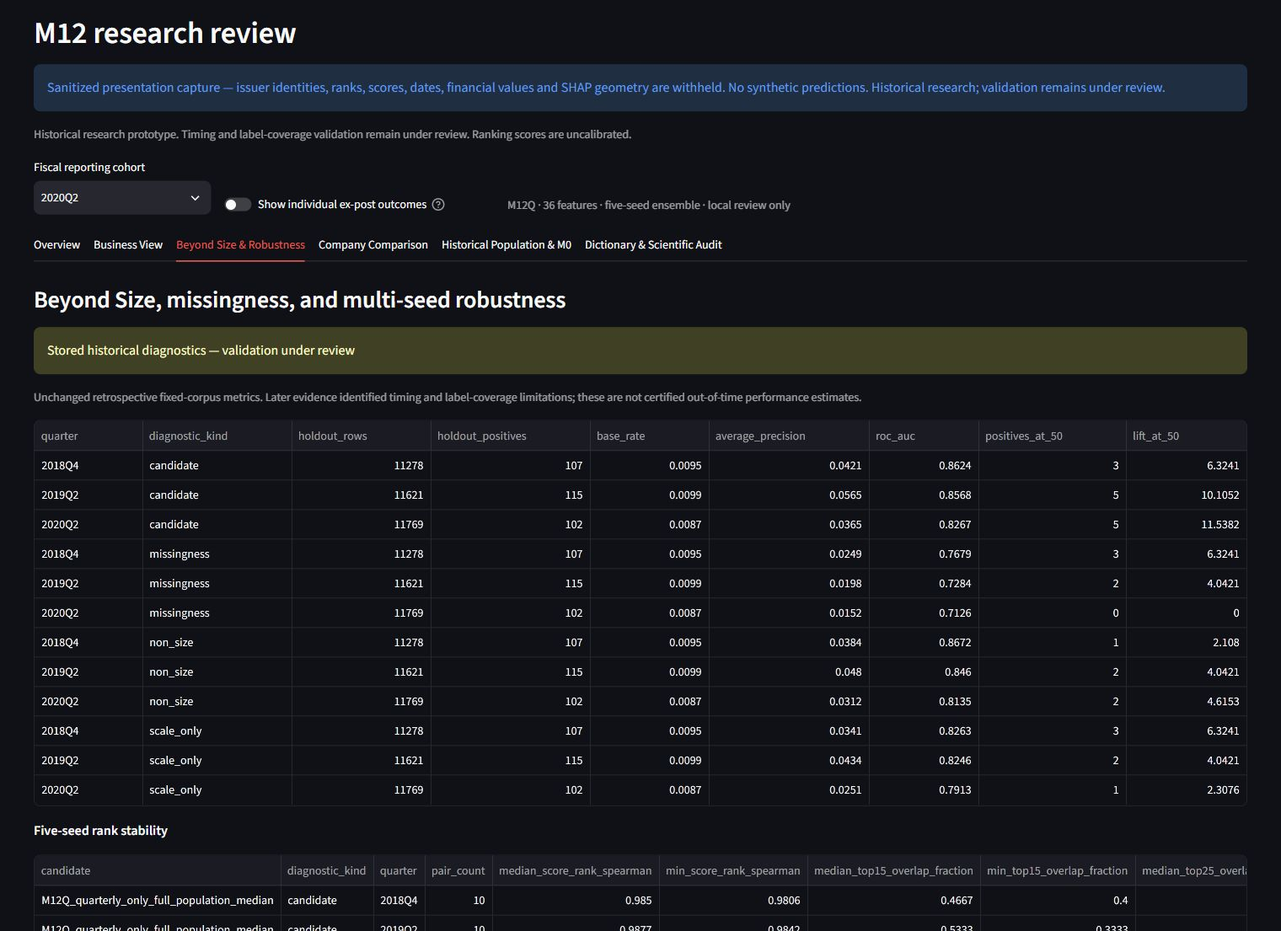
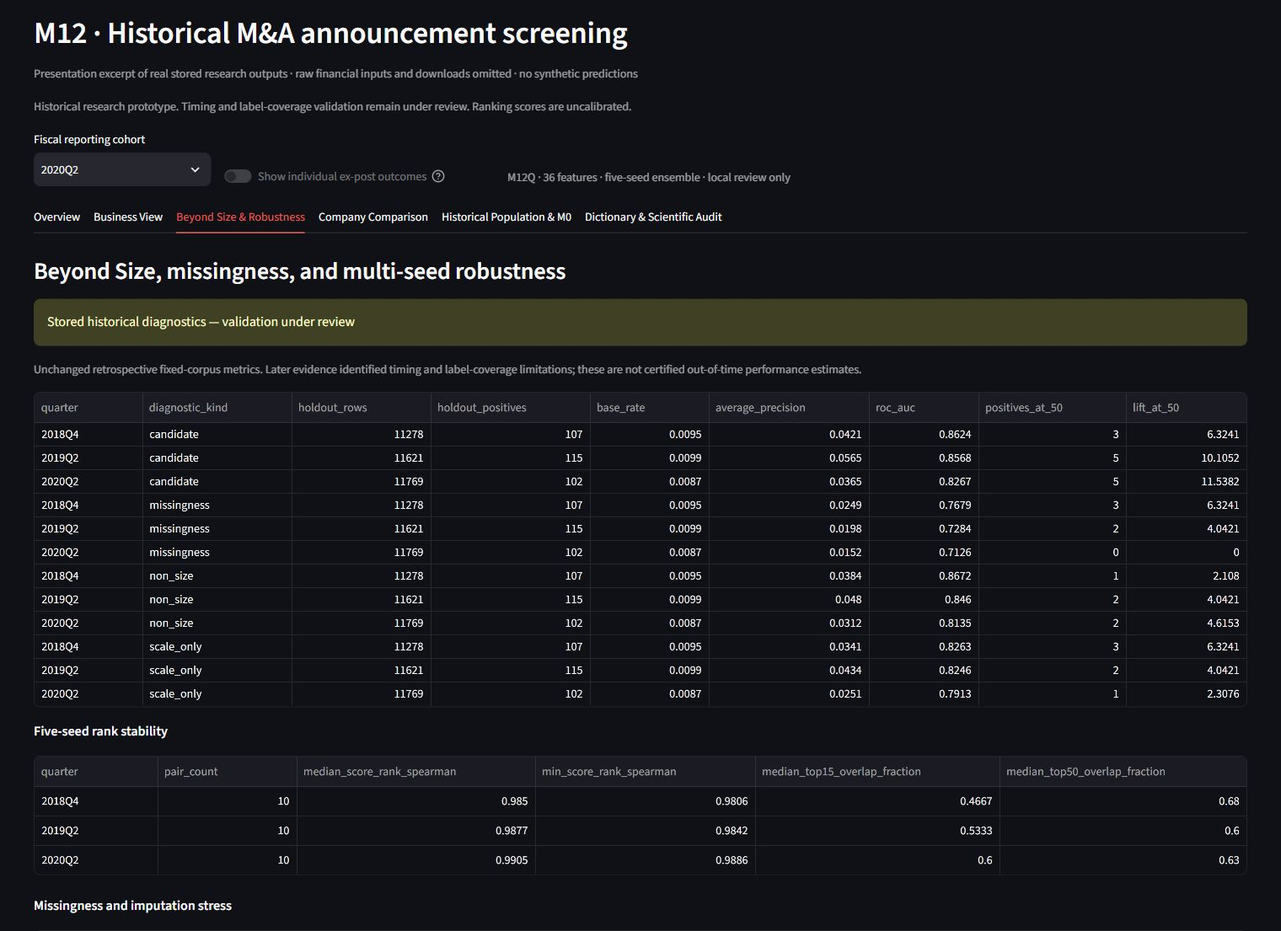
Improve README and screenshots for M12 dashboard review

diff --git a/README.md b/README.md
@@ -1,31 +1,61 @@
-# Historical SEC Filer research review
+# M&A announcement screening and explainability
 
-This private repository is a code checkpoint of a collaborative historical M&A research dashboard. The documented `app.py` entry point opens the reviewed **Overview-first** UI when authorized local dependencies are available, and a graceful code-only notice otherwise.
+This historical research MVP turns saved company-level model outputs into an **Overview-first screening workflow**: inspect ranked issuers, open a company, see what contributes to its score, compare names, and review the supporting historical diagnostics. Its intended use is U.S. public-company M&A research. The saved SEC-filer cohorts have **not** been validated as a U.S.-listed-only universe.
 
-**Historical research prototype. Timing and label-coverage validation remain under review. Ranking scores are uncalibrated.** This checkpoint is not a full-data backup, scientific approval, or authorization to redistribute licensed data. Earlier saved PASS/GS-ready statuses describe historical engineering checks, not current scientific certification.
+The model ranks potential **M&A-announcement SEC-filer/participant appearance in a following historical 92-day window**. It does not identify which company will be an acquisition target or acquirer. The explainability layer separates signed **Scale vs Non-scale** contributions and drills down to company-level drivers.
+
+**Scores are uncalibrated. Historical timing and label-coverage validation remain under review.** This is a historical research prototype, not a production trading or deal-execution system, a current-market prediction service, or a scientific approval. Earlier saved PASS/GS-ready statuses describe historical engineering checks, not current scientific certification.
+
+## What the reviewer can inspect
+
+| Question | Saved output and dashboard view |
+|---|---|
+| Which issuers rank highest? | Overview lists names, original full-cohort ranks, inclusive Top X% and uncalibrated scores. A signed contribution chart opens the selected issuer's Business View. |
+| Why does a company rank there? | Business View shows its information date and forecast window, signed Scale/Non-scale totals, and ranked drivers. Positive and negative SHAP contributions raise or lower the model's raw output relative to its saved baseline. |
+| Is the result just a size effect? | Beyond Size & Robustness presents scale-only, non-size and missingness comparators, plus saved seed-stability diagnostics. |
+| How do the leading names differ? | Company Comparison aligns saved ranks and model explanations across selected companies. Raw financial values are hidden in the published captures. |
+| What supports the research interpretation? | Historical Population & M0 provides descriptive context; Dictionary & Scientific Audit exposes feature definitions, the target contract and engineering-check caveats. |
+
+The selected saved model is `M12Q_quarterly_only_full_population_median`: a five-seed ensemble with 36 quarterly-only features. This application reads saved results; it performs no training, calibration, inference or new SHAP computation. With authorized local dependencies, `app.py` opens the reviewed UI. Without them, it displays a clear code-only notice rather than invented results.
 
 ## Dashboard screenshots
 
-Selected views from the current reviewed historical research dashboard are shown below. The screenshots illustrate the screening and explainability workflow; stored ranking scores are uncalibrated and historical timing / label-coverage validation remains under review.
+Selected views from the historical research dashboard illustrate issuer screening, real saved ranking outputs, signed Scale / Non-scale contributions, company-level drivers, robustness diagnostics, and the engineering/audit layer. Ranking scores are uncalibrated; these views are a historical research prototype, not a production-ready system.
 
-**Sanitized presentation captures, not newly shareable issuer-level results.** Identities, issuer-specific ranks/scores/dates, financial values, ranked drivers, fitted baselines and SHAP bar geometry are withheld where present. No synthetic company predictions or replacement numerical results were invented. Existing approved aggregate diagnostics and dictionary definitions remain visible. Click an image to inspect its full-resolution view.
+**Presentation-safe captures of existing outputs.** Company names, ranks, percentiles, scores, timing fields and signed SHAP explanations remain visible. Raw vendor financial/model-input values and downloadable issuer-level tables are omitted. No company predictions or SHAP results were invented. Click an image for the full-resolution view.
 
 <table>
 <tr>
-<td width="50%"><a href="assets/screenshots/01_overview.png"><img src="assets/screenshots/01_overview.png" width="100%" alt="Sanitized Overview: ranked screening controls and withheld issuer-level contributions"></a><br>Overview — ranked issuer screening and signed Scale / Non-scale contributions</td>
-<td width="50%"><a href="assets/screenshots/02_business_view.png"><img src="assets/screenshots/02_business_view.png" width="100%" alt="Sanitized Business View: ranking and forecast field labels with private values withheld"></a><br>Business View — company-level ranking, forecast window and financial drivers</td>
+<td width="50%"><a href="assets/screenshots/01_overview.png"><img src="assets/screenshots/01_overview.png" width="100%" alt="Overview with actual ranked issuer names and signed Scale and Non-scale contributions"></a><br>Overview — ranked issuer screening workflow and signed Scale / Non-scale contributions</td>
+<td width="50%"><a href="assets/screenshots/02_business_view.png"><img src="assets/screenshots/02_business_view.png" width="100%" alt="Selected company's rank, uncalibrated score, information date, forecast window and signed drivers; raw financial values hidden"></a><br>Business View — company-level rank, uncalibrated score, forecast window, and top drivers</td>
 </tr>
 <tr>
-<td width="50%"><a href="assets/screenshots/03_beyond_size_robustness.png"><img src="assets/screenshots/03_beyond_size_robustness.png" width="100%" alt="Historical aggregate comparator and robustness diagnostics with validation caveat"></a><br>Beyond Size &amp; Robustness — scale, missingness and stability diagnostics</td>
-<td width="50%"><a href="assets/screenshots/04_company_comparison.png"><img src="assets/screenshots/04_company_comparison.png" width="100%" alt="Sanitized comparison matrix with public feature definitions and issuer values withheld"></a><br>Company Comparison — cross-company financial and SHAP comparison</td>
+<td width="50%"><a href="assets/screenshots/03_beyond_size_robustness.png"><img src="assets/screenshots/03_beyond_size_robustness.png" width="100%" alt="Historical candidate, scale-only, non-size and missingness comparator metrics with stability diagnostics and validation caveat"></a><br>Beyond Size &amp; Robustness — robustness evidence versus size-only and related diagnostics</td>
+<td width="50%"><a href="assets/screenshots/04_company_comparison.png"><img src="assets/screenshots/04_company_comparison.png" width="100%" alt="Comparison of named companies, original rankings and derived model explanations with raw financial values omitted"></a><br>Company Comparison — cross-company comparison of ranked names and model outputs</td>
 </tr>
 <tr>
-<td width="50%"><a href="assets/screenshots/05_historical_population.png"><img src="assets/screenshots/05_historical_population.png" width="100%" alt="Historical descriptive population findings; private M0 issuer detail omitted"></a><br>Historical Population &amp; M0 — descriptive historical population evidence</td>
-<td width="50%"><a href="assets/screenshots/06_dictionary_scientific_audit.png"><img src="assets/screenshots/06_dictionary_scientific_audit.png" width="100%" alt="Feature dictionary, target definition and saved engineering-check caveats"></a><br>Dictionary &amp; Scientific Audit — feature definitions, target contract and engineering audit trail</td>
+<td width="50%"><a href="assets/screenshots/05_historical_population.png"><img src="assets/screenshots/05_historical_population.png" width="100%" alt="Descriptive historical population evidence, explicitly separate from current prediction validation; raw M0 values omitted"></a><br>Historical Population &amp; M0 — descriptive historical evidence behind the screening framework</td>
+<td width="50%"><a href="assets/screenshots/06_dictionary_scientific_audit.png"><img src="assets/screenshots/06_dictionary_scientific_audit.png" width="100%" alt="Feature dictionary structure, SEC-filer target definition and qualified saved audit checkpoints"></a><br>Dictionary &amp; Scientific Audit — feature definitions, target contract, and audit trail</td>
 </tr>
 </table>
 
-All six captures use the reviewed Overview-first UI, dark theme and individual ex-post outcomes OFF. Sensitive views demonstrate the interface rather than disclose the hidden results. See [DATA_NOTICE.md](DATA_NOTICE.md) and the screenshot section of [CHECKPOINT_QA.md](CHECKPOINT_QA.md) for the exact disclosure boundary. The older `assets/dashboard_preview.png` remains unchanged for historical continuity; it is not the current reviewed gallery.
+All six captures use the reviewed Overview-first UI, dark theme and individual ex-post outcomes OFF. The screenshot-only display adapter hides restricted values without changing stored results or the application. See [DATA_NOTICE.md](DATA_NOTICE.md) and [CHECKPOINT_QA.md](CHECKPOINT_QA.md) for the disclosure boundary and verification evidence. The older `assets/dashboard_preview.png` remains unchanged for historical continuity; it is not the current reviewed gallery.
+
+Financial data source: **Compustat North America via WRDS**. Event data comes from the project's licensed/authorized historical sources. Model rankings and SHAP analyses shown here are author-generated research outputs. Attribution does not grant permission to redistribute source data or the complete issuer-level output files.
+
+## Historical evidence at a glance
+
+The table below reproduces existing **M12Q five-seed ensemble** diagnostics for all three saved fiscal-reporting cohorts. A cohort label is not a common prediction date: each issuer has its own information date and subsequent 92-day label window. Counts are evaluated rows and stored positives, not a newly certified U.S.-listed population.
+
+| Fiscal cohort | Evaluated rows / stored positives | Average precision, M12Q / scale-only | ROC-AUC, M12Q / scale-only | Top-50 positives, M12Q / scale-only | Top-15 positives, M12Q |
+|---|---:|---:|---:|---:|---:|
+| 2018Q4 | 11,278 / 107 | 0.0421 / 0.0341 | 0.8624 / 0.8263 | 3 / 3 | 1 |
+| 2019Q2 | 11,621 / 115 | 0.0565 / 0.0434 | 0.8568 / 0.8246 | 5 / 2 | 1 |
+| 2020Q2 | 11,769 / 102 | 0.0365 / 0.0251 | 0.8267 / 0.7913 | 5 / 1 | 0 |
+
+Source: [saved ensemble metrics](data/public/historical_M12_ensemble_metrics.csv), `candidate=M12Q_quarterly_only_full_population_median`, `diagnostic_kind=candidate` and `scale_only`; AUC values rounded to four decimals. Average precision is the saved PR-summary metric. These are descriptive retrospective results, not recomputed or independently revalidated performance estimates.
+
+The saved candidate has higher average precision and ROC-AUC than scale-only in all three cohorts. That does **not** imply uniformly strong top-ranked outcomes: the 2020Q2 candidate has zero stored positives in its Top 15, and its 2018Q4 Top-50 count only ties scale-only. Low event prevalence, unresolved timing/data-vintage evidence, label maturity and negative-label coverage limit the conclusions. The dashboard also exposes [non-size, frequency and missingness comparisons](data/public/historical_M12_ensemble_metrics.csv), [seed stability](data/public/historical_M12_rank_stability_summary.csv) and [paired bootstrap diagnostics](data/public/historical_M12_paired_bootstrap_comparisons.csv); none supersede those validation caveats.
 
 ## Reviewed interactions
 
@@ -35,7 +65,9 @@ All six captures use the reviewed Overview-first UI, dark theme and individual e
 - Business View combines rank and inclusive Top X% in one card, retains detailed drivers/remainders, and reconciles saved signed SHAP against the saved ensemble baseline and score.
 - Six destinations retain robustness, comparison, historical population/M0, dictionary, and scientific-audit material. Individual ex-post outcomes are off by default.
 
-The saved selected model is `M12Q_quarterly_only_full_population_median`, a five-seed ensemble with 36 quarterly-only features and fiscal-reporting cohorts 2018Q4, 2019Q2, and 2020Q2. No training, calibration, inference, or new SHAP computation is part of this application.
+The score is a logistic transform of the saved raw model output, not a calibrated event probability. Signed SHAP totals reconcile to raw output relative to the saved baseline; their units are not percentage-point changes in event probability. Scale attribution is a model explanation, not a causal effect of company size.
+
+Inclusive Top X% is the original rank divided by all stored cohort rows; it is not the stored score percentile. Neither search nor a screenshot subset changes the original rank or denominator.
 
 ## Local launch
 
@@ -81,10 +113,10 @@ The stored target is SEC-filer/participant appearance in the locally linked anno
 
 ## Research lineage and attribution
 
-This packages existing collaborative research, not a claim of sole authorship of the underlying modeling. Daniel's legacy notebook/portfolio-selection work remains a separate lineage from the selected M12Q model. Ryu's technical questions remain interview-preparation context and are not added to the dashboard or used to change models. Existing source artifacts and the original dashboard are preserved outside this sharing copy.
+This packages existing collaborative research, not a claim of sole authorship of the underlying modeling. Daniel's legacy notebook/portfolio-selection work remains a separate lineage from the selected M12Q model; its historical Top-10 claims must not be attributed to the M12Q results above. Ryu's technical questions remain interview-preparation context and are not added to the dashboard or used to change models. Existing source artifacts and the original dashboard are preserved outside this sharing copy. This is an independent research presentation, not a Goldman Sachs system or a claim of equivalent internal performance.
 
 ## Files
 
 `app.py` routes to `dashboard/historical_m12_review_ui.py`; `dashboard/m12_review_ui_helpers.py` retains the reviewed numerical and identity logic. `dashboard/sharing_paths.py` isolates public/private routing. Tests live in `tests/`. [MANIFEST.csv](MANIFEST.csv) inventories tracked files and separately records excluded local dependencies. Existing aggregate evidence and the approved preview are unchanged. No new license or redistribution permission is granted.
 
-Included-file sizes and SHA-256 hashes use Git's LF-normalized text bytes (binary bytes unchanged), so Windows checkout line endings do not change their meaning. Excluded dependencies and `source_sha256` use exact original file bytes. The manifest excludes its own recursive hash. The six new gallery PNGs are explicitly sanitized captures, not byte-identical copies of private source outputs; their original-source hash field is therefore blank.
+Included-file sizes and SHA-256 hashes use Git's LF-normalized text bytes (binary bytes unchanged), so Windows checkout line endings do not change their meaning. Excluded dependencies and `source_sha256` use exact original file bytes. The manifest excludes its own recursive hash. The six gallery PNGs are presentation-safe captures, not byte-identical copies of private source outputs; their original-source hash field is therefore blank.

diff --git a/DATA_NOTICE.md b/DATA_NOTICE.md
@@ -10,9 +10,11 @@ Accordingly, this repository includes only:
 2. small aggregate model-selection, evaluation, robustness, and profile summaries;
 3. feature/theme/Scale display contracts and QA summaries;
 4. one previously approved static dashboard preview; and
-5. six explicitly reviewed, sanitized presentation captures under `assets/screenshots/`, subject to the narrow boundary below.
+5. six explicitly reviewed, presentation-safe captures under `assets/screenshots/`, subject to the narrow, screenshot-specific boundary below.
 
-It excludes raw or near-raw licensed data and issuer-level derived vendor data for which sharing rights remain uncertain. No replacement scientific evidence was fabricated.
+It excludes raw or near-raw licensed data and full issuer-level derived output files for which sharing rights remain uncertain. The authorized presentation exception allows selected model-derived values in flattened screenshots, not the underlying files or raw financial values. No replacement scientific evidence was fabricated.
+
+Financial data source: Compustat North America via WRDS. Event data comes from the project's licensed/authorized historical sources. Displayed model rankings and SHAP analyses are author-generated research outputs. Naming a source does not extend the source-data license or establish unlimited redistribution rights.
 
 ## Required local-only files
 
@@ -50,19 +52,24 @@ The application checks required file presence, then validates selected-candidate
 - M0–M11 outputs except the single local-only M0 forensic dependency listed above.
 - Credentials, tokens, cookies, browser profiles, `.env`, or `.streamlit/secrets.toml`.
 
-Until the ten current local-only dependencies are separately authorized and supplied, the interactive dashboard is not fully reproducible from Git alone. Unsanitized runtime output and screenshots remain local; private visibility is not permission to upload issuer-level values or derived outputs.
+Until the ten current local-only dependencies are separately authorized and supplied, the interactive dashboard is not fully reproducible from Git alone. Runtime tables, downloadable issuer-level outputs and screenshots outside the specific reviewed exception below remain local. Private visibility is not general permission to upload data or derived outputs.
 
 ## Narrow screenshot-gallery disclosure boundary
 
-The six PNGs added on September 30, 2026 are labeled sanitized presentation captures of the current reviewed UI. Their inclusion does not change the exclusions above or authorize disclosure of any additional issuer-level data.
+The six gallery PNGs were revised under the September 30, 2026 presentation authorization. That authorization permits selected existing company identities and model-derived outputs to make the research workflow legible. It supersedes the earlier gallery's broader visual masking for these six captures only. It does not authorize new science, redistribution of full issuer-level files, or disclosure of reconstructable licensed source data.
 
-- Overview, Business View and Company Comparison withhold issuer identities, ranks/Top X%, scores, issuer dates/windows, financial and imputed values, missingness cells, ranked driver concepts/values, fitted baselines and numerical reconciliation details. SHAP bar geometry, signed-net markers, numeric axes and tooltips are omitted, not merely anonymized.
-- Historical Population shows only the already-included aggregate findings; the protected M0/SPX issuer-level table is omitted.
-- Beyond Size & Robustness retains already-included aggregate diagnostics with their historical-validation caveats.
-- Dictionary & Scientific Audit retains public definitions, target text and qualified saved-check statuses. Local evidence paths are withheld, and issuer-level reconciliation/named-company details remain unexposed.
-- Individual ex-post outcomes remain OFF. No synthetic predictions, financial values, replacement SHAP bars or scientific evidence were fabricated.
+| View | Permitted presentation content | Content withheld |
+|---|---|---|
+| Overview | Actual saved company names/tickers, original ranks, percentile/Top X%, uncalibrated score, and signed Scale/Non-scale SHAP contributions | Raw financial/model-input values, complete downloadable issuer tables and local paths |
+| Business View | Actual selected-company identity, rank, percentile, score, information date/forecast window, driver names and signed SHAP contribution | Raw and imputed financial values, reconstructable source-value tables and downloads |
+| Beyond Size & Robustness | Existing aggregate candidate/comparator metrics, missingness/frequency diagnostics and seed stability, with caveats | Any raw issuer-level model inputs or full output files |
+| Company Comparison | Selected actual names, rankings, timing and comparable derived model/SHAP outputs | Raw financial/model-input values and complete issuer-level comparison files |
+| Historical Population & M0 | Existing descriptive aggregate findings, explicitly separated from live prediction validation | Protected M0/SPX raw issuer financial values and downloadable forensic tables |
+| Dictionary & Scientific Audit | Already-approved feature definitions/mnemonics, target text, contract structure and qualified saved-check statuses | Local evidence paths, raw financial values and complete reconciliation/output files |
 
-Sanitization is performed before image capture in an isolated local display adapter; the reviewed application, stored research results and code-only entry point are unchanged. Only flattened raster captures are included, with no private source tables, browser state, local adapter, DOM dumps, credentials or image metadata. The prior approved `assets/dashboard_preview.png` is retained unchanged and grants no broader display permission.
+Raw vendor financial values must not appear in any gallery image. Raw vendor field names are restricted to the already-approved feature dictionary context; company driver views use descriptive names rather than exposing source tables. The display adapter suppresses downloads and raw/imputed model-input columns before capture, and only a bounded selection of existing model-derived outputs is displayed. Individual ex-post outcomes remain OFF. No synthetic company predictions, financial values, replacement SHAP bars or scientific evidence are fabricated.
+
+This is a screenshot-only display transformation. The reviewed application, stored research results and code-only entry point are unchanged. Only flattened raster captures are included, with no private source tables, browser state, local adapter, DOM dumps, credentials or image metadata. The prior approved `assets/dashboard_preview.png` is retained unchanged and grants no broader display permission. Reuse outside this private research-review repository requires its own authorization.
 
 ## Historical evidence is not scientific approval
 

diff --git a/CHECKPOINT_QA.md b/CHECKPOINT_QA.md
@@ -60,3 +60,28 @@ Fresh unchanged sharing-repository tests: **17 passed / 42 skipped** without pri
 Publication review checks only the explicit six PNGs and four documentation/manifest files. It excludes private directories, raw/vendor files, binaries, archives, notebook output, credentials, absolute local paths and files over 25 MB. The manifest retains all excluded dependency records and the self-referential exception, using normalized text bytes and exact PNG bytes. README uses relative image links with full-resolution click-through; the older approved preview remains tracked and unchanged. GitHub privacy and remote-main checks must be repeated before and after the normal non-force push.
 
 No training, inference, new SHAP, WRDS, acquisition, research-data mutation, deployment or scientific-validation change is part of this gallery. Streamlit guidance informed the loopback/theme setup; browser/computer-use guidance informed viewport capture and visual review. This is a sanitized presentation checkpoint, not a full-data backup or scientific approval.
+
+## Informative presentation upgrade — September 30, 2026
+
+This follow-up began at clean local/remote `main` commit `ebfb7991a27a16034f3651cb9fa1509e49d9687e` after independent PRIVATE-visibility verification. The earlier gallery and test descriptions above are historical records, not descriptions of the replacement PNGs or new test runs. The new explicit authorization permits bounded screenshots of actual stored company identities, ranks, percentiles, uncalibrated scores, timing fields and SHAP explanations. It does not permit raw financial/model-input values or full issuer-level files. DATA_NOTICE documents the revised narrow boundary.
+
+The unchanged source review entry point was launched on loopback with telemetry disabled. All six destinations were verified. A new local-only presentation adapter executes the source without editing it, removes raw financial input columns before display, restricts Comparison to actual saved SHAP, suppresses explicit output downloads, omits source-linked M0/reconciliation tables and local paths, and retains authorized real rankings and contribution geometry. It shortens table/chart viewport framing only; it does not change scores, ranks, feature values, SHAP values or scientific conclusions. Internal row keys and unnecessary numerical baseline/provenance are not shown. The adapter, tests and logs are not published.
+
+| Final PNG | Displayed | Withheld |
+|---|---|---|
+| `01_overview.png` | Actual Top-15 issuer names/tickers, ranks, inclusive Top X%, scores and signed Scale/Non-scale bars | Raw financial inputs, complete issuer export and internal identifiers |
+| `02_business_view.png` | Actual rank-1 Rambus identity, score, rank, information date/window, signed subtotals, five stored driver names and SHAP values | Raw-value column, fitted baseline/provenance, internal row key and output downloads |
+| `03_beyond_size_robustness.png` | Existing all-three-cohort candidate/scale-only/non-size/missingness metrics and seed-stability summary | New calculations or scientific certification |
+| `04_company_comparison.png` | First four stored ranked companies, actual signed feature SHAP, original ranks/percentiles and dates | Raw economic values, imputed model inputs, technical feature columns and full comparison export |
+| `05_historical_population.png` | Existing aggregate descriptive findings with historical caveat | M0/SPX issuer financial source-value table |
+| `06_dictionary_scientific_audit.png` | Public dictionary context, target and qualified saved checks | Local paths and full issuer reconciliation/output files |
+
+All six final PNGs were opened and visually reviewed individually. They use a consistent 1600 x 1200 desktop viewport, a 1520 x 1105 application-only crop, dark theme and individual outcomes OFF. Conversion from browser JPEG to PNG preserves decoded pixels without rescaling and writes no image metadata. Some lower or horizontally wide table content lies outside the bounded capture; README provides full-resolution links. PNG files are under 0.8 MB each. The older approved preview remains unchanged.
+
+Fresh local adapter tests: **17 passed; zero failures, errors or skips**. This includes real saved Top-15 SHAP preservation, removal of raw/model input fields, all six Streamlit AppTest views, SHAP-only Comparison, selected-company identity/rank/score/date agreement, disabled outcomes and absent explicit output-download elements. Tests execute no model and compute no new SHAP. The earlier 17/42 and 58/1 sharing-suite results remain separately dated evidence; they were not rerun or claimed as new results in this presentation-only update. All 38 available protected source referents remain byte-identical before/after; one missing historical external prompt is explicitly unverified.
+
+Fresh browser review confirmed the Overview-to-Business-View button retained rank-1 Rambus and its stored score/date/SHAP totals. Every view was inspected with the correct active tab before capture. Browser logs recorded transient Vega infinite-extent warnings during chart initialization/reloads; final charts rendered finite signed axes and the expected saved bars. No browser errors were observed. This is not a claim of warning-free startup or new scientific validation.
+
+README now explains the target, score interpretation, SHAP units, data sources, collaborative attribution and limitations. Its three-cohort evidence table transcribes the existing aggregate CSV, including zero 2020Q2 Top-15 positives and the 2018Q4 Top-50 tie with scale-only. It does not merge legacy Top-10 results with M12Q or certify the saved cohort as U.S.-listed-only.
+
+Only the six replacement PNGs and four documentation/manifest files are in the explicit publication plan. Manifest hashes follow the existing LF-normalized-text/binary-exact convention, preserve excluded dependencies unchanged and retain the self-hash exception. Publication requires staged-diff review, PRIVATE rechecks, a normal non-force push and independent remote-SHA/image/README verification. No application code, dependency pins, private data, model binaries, archives, notebook output, credentials or real local paths are included in this update. Streamlit guidance informed pre-render column removal; computer-use guidance informed consistent capture and visual verification.
